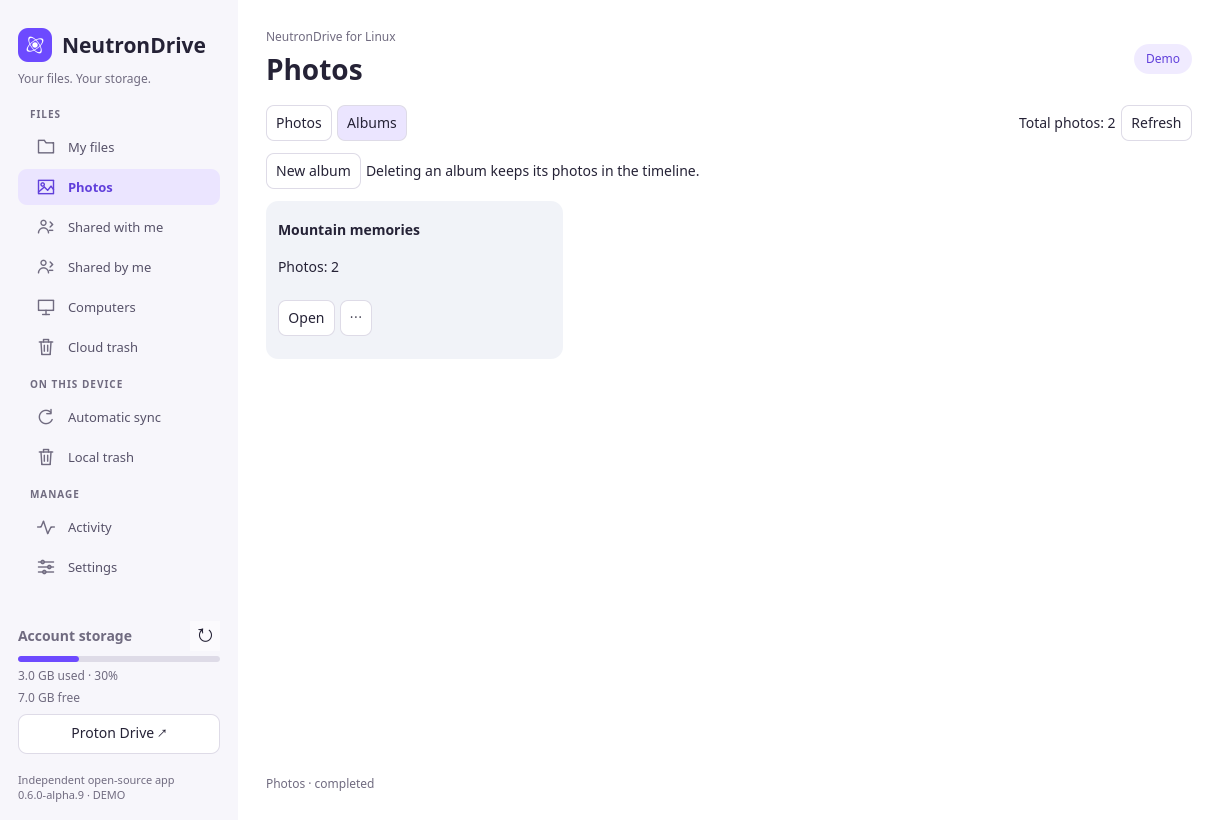
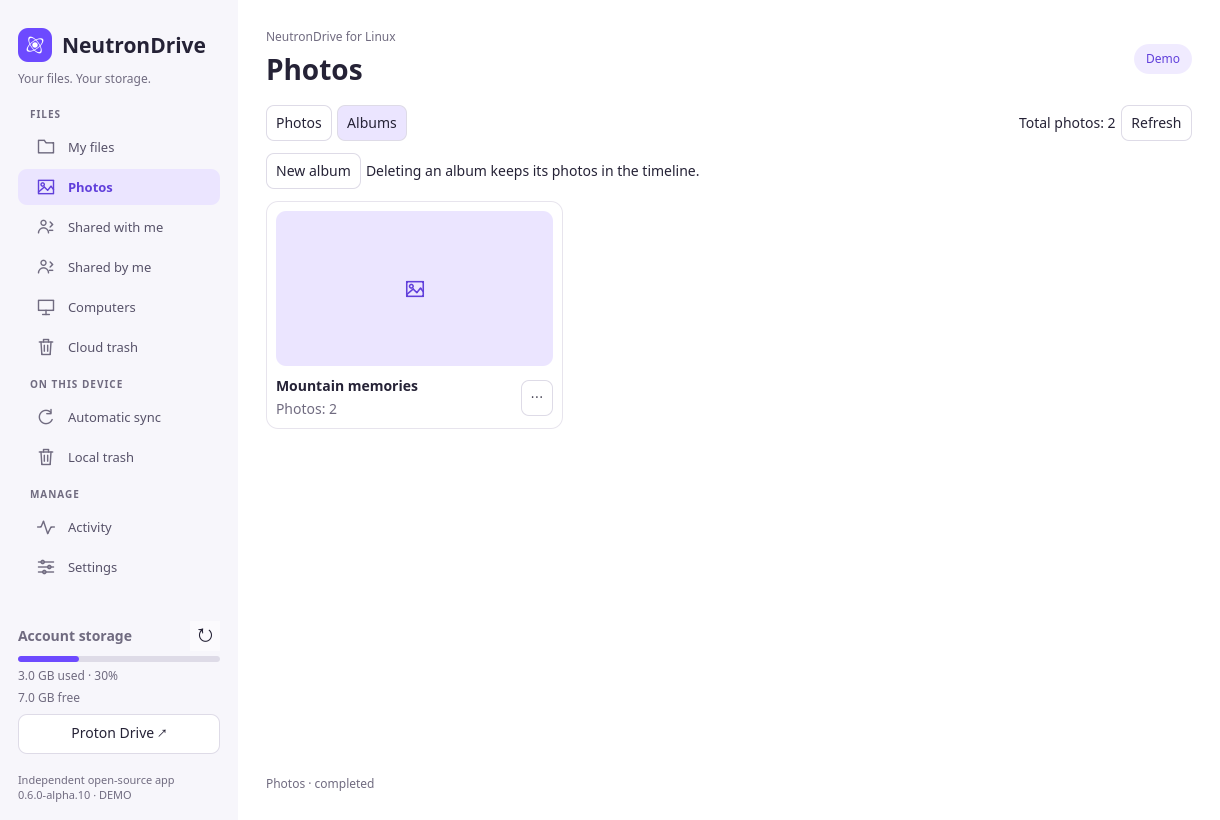
Fix isolated Snap and Arch packaging and document alpha10

diff --git a/README.md b/README.md
@@ -4,7 +4,7 @@ An independent, open-source **Linux desktop client for Proton Drive**, with a
 native Qt Quick/QML interface and Proton's open-source SDK/CLI as its encryption and account
 backend. The interface follows the system language, with 25 Windows-matching language variants and an English fallback. See [localization and translation review status](docs/LOCALIZATION.md).
 
-**Status: 0.6.0 alpha 9.** Automatic background synchronization, recoverable
+**Status: 0.6.0 alpha 10.** Automatic background synchronization, recoverable
 bidirectional file deletions and real on-demand files are implemented. Full Windows/macOS feature parity is not yet reached.
 Keep an independent backup while using this alpha. See the actual [validation record](docs/VALIDATION.md).
 
@@ -12,17 +12,16 @@ NeutronDrive is not affiliated with, endorsed by, or officially supported by
 Proton AG. Proton names are used only to identify the compatible service. The
 interface and icon are original; no Windows/macOS application code is copied.
 
-> **In development after alpha9:** a themed two-step setup assistant, cleaner photo
-> selection and a zoomable preview, plus native file-manager menu extensions.
-> See [desktop refinements](docs/DESKTOP-FEATURES.md#gallery-and-desktop-refinements-development-after-alpha9)
-> and [file-manager support](docs/FILE-MANAGER-INTEGRATION.md). These changes are not
-> included in the alpha9 downloads yet.
+Alpha10 adds a themed two-step setup assistant, opt-in photo selection and a
+zoomable preview, plus native file-manager menu extensions. See
+[desktop refinements](docs/DESKTOP-FEATURES.md#gallery-and-desktop-refinements-alpha10)
+and [file-manager support](docs/FILE-MANAGER-INTEGRATION.md).
 
-## Next-build previews
+## Photos and setup previews
 
-Captured from the actual development UI in English with synthetic demo data.
+Actual alpha10 release UI, captured in English with isolated synthetic data.
 
-![Photo selection in the development build](docs/previews/development/light-photos-selection.png)
+![Photo selection](docs/previews/development/light-photos-selection.png)
 
 [Clean photo grid](docs/previews/development/light-photos.png) ·
 [Image preview](docs/previews/development/light-photo-viewer.png) ·
@@ -40,7 +39,7 @@ views; arrow keys, Ctrl+A, Ctrl-click and double-click folder navigation work in
 both. The view choice lasts for the current application session. Grid tiles use
 file/folder icons, not photo thumbnails.
 
-![Current alpha9 grid view in English](docs/previews/files-grid-light.png)
+![Current alpha10 grid view in English](docs/previews/files-grid-light.png)
 
 [Dark grid](docs/previews/files-grid-dark.png) ·
 [Detailed list](docs/previews/files-list-light.png) ·
@@ -65,11 +64,11 @@ sync overview, computer backup and guarded version history remain available.
 See [desktop feature details and limits](docs/DESKTOP-FEATURES.md). This is not a
 claim of complete Windows/macOS parity; package restrictions remain explicit.
 
-## Published alpha9 interface
+## Published alpha10 interface
 
-![Current alpha9 interface in English with isolated sample files](docs/demo.png)
+![Current alpha10 interface in English with isolated sample files](docs/demo.png)
 
-Actual alpha9 GUI, captured in English using isolated synthetic data; no live account or personal files.
+Actual alpha10 GUI, captured in English using isolated synthetic data; no live account or personal files.
 [Preview build and capture details](docs/GUI-PREVIEWS.json).
 
 [Current dark appearance preview](docs/demo-dark.png) · Appearance follows the desktop setting or your manual preference.
@@ -164,21 +163,21 @@ After downloading a matching package:
 
 ```sh
 # Debian/Ubuntu
-sudo apt install ./neutrondrive_0.6.0-alpha9-1_amd64.deb
+sudo apt install ./neutrondrive_0.6.0-alpha10-1_amd64.deb
 
 # Fedora (use the Fedora artifact)
-sudo dnf install ./neutrondrive-0.6.0-alpha9-fedora-x86_64.rpm
+sudo dnf install ./neutrondrive-0.6.0-alpha10-fedora-x86_64.rpm
 
 # openSUSE (use the openSUSE artifact)
-sudo zypper install ./neutrondrive-0.6.0-alpha9-opensuse-x86_64.rpm
+sudo zypper install ./neutrondrive-0.6.0-alpha10-opensuse-x86_64.rpm
 
 # Flatpak
 flatpak remote-add --user --if-not-exists flathub https://flathub.org/repo/flathub.flatpakrepo
-flatpak install --user ./neutrondrive-0.6.0a9-x86_64.flatpak
+flatpak install --user ./neutrondrive-0.6.0a10-x86_64.flatpak
 flatpak run io.github.SigmaCodez.NeutronDrive
 
 # Snap (unsigned alpha package)
-sudo snap install --dangerous ./neutrondrive_0.6.0-alpha9_amd64.snap
+sudo snap install --dangerous ./neutrondrive_0.6.0-alpha10_amd64.snap
 sudo snap connect neutrondrive:password-manager-service
 ```
 
@@ -186,8 +185,8 @@ Additional formats:
 
 ```sh
 # Portable x86_64 AppImage
-chmod +x NeutronDrive-0.6.0-alpha9-x86_64.AppImage
-./NeutronDrive-0.6.0-alpha9-x86_64.AppImage
+chmod +x NeutronDrive-0.6.0-alpha10-x86_64.AppImage
+./NeutronDrive-0.6.0-alpha10-x86_64.AppImage
 
 # Arch/Manjaro: review the PKGBUILD, then build as a regular user
 # Requires base-devel and git.
@@ -429,7 +428,7 @@ and use their normal package/update workflow. See [update behavior and limits](d
 Automatic sync now includes a Computer backup card that registers a Linux
 computer through the official SDK and synchronizes selected folders under
 Proton Drive's Computers section. It requires the new source-built SDK bridge
-and Rust core, included in alpha9 packages. See
+and Rust core, included in alpha10 packages. See
 [setup and safety behavior](docs/COMPUTER-BACKUP.md) and the
 [Windows feature comparison](docs/WINDOWS-PARITY.md) for remaining gaps.
 

diff --git a/docs/VALIDATION.md b/docs/VALIDATION.md
@@ -135,3 +135,23 @@ AUR publication is pending an AUR account and SSH access; GitHub provides the
 recipe, generated metadata and tested Arch binary without claiming an AUR listing.
 The supplemental release files use `PORTABLE_SHA256SUMS`; existing alpha6 files
 and the release tag are retained unchanged.
+
+## 0.6.0 alpha10 release validation
+
+Native application and DEB source commit: `bba4545cdf728ddec2da026e781fa3acc2844033`. Package corrections and final validation are recorded
+in the [release checks](https://github.com/SigmaCodez/NeutronDrive/pull/9/checks). Feature changes and release metadata are
+tracked in [PR #9](https://github.com/SigmaCodez/NeutronDrive/pull/9).
+
+The build validates both native architectures, Rust tests and Clippy, retained
+regression contracts, SDK bridge tests and eight Linux installation packages.
+Native menu providers are tested against real host libraries with synthetic
+file information and intercepted process spawning, including the two Nautilus
+ABIs. Isolated actual Qt input tests cover the themed sign-in/folder steps,
+photo selection, viewer, albums and navigation. Fresh English previews come
+from the unchanged release DEB, with executable hashes in GUI-PREVIEWS.json.
+
+No new live cloud mutation test was performed for this UI/menu release. Earlier
+alpha9 live-test evidence remains separately dated above. PCManFM/PCManFM-Qt
+full desktop GUI testing remains pending. This does not certify every distro
+or establish absence of all bugs. See release BUILD_INFO.json, TEST_RESULTS.json,
+SHA256SUMS and native/SDK provenance for exact artifacts and test jobs.

diff --git a/packaging/README.md b/packaging/README.md
@@ -16,7 +16,7 @@ python3 scripts/build-backend --help
 ```
 
 The current SDK bridge and application packages are published together in
-`v0.6.0-alpha9`. Source builds are inspectable; bit-for-bit reproducibility
+`v0.6.0-alpha10`. Source builds are inspectable; bit-for-bit reproducibility
 across arbitrary build hosts is not claimed.
 
 ## Requirements and coverage
@@ -146,7 +146,7 @@ an expendable Ubuntu 24.04 build environment; CI uses a disposable runner.
 
 ```sh
 python3 scripts/build-snap
-sudo snap install --dangerous dist/neutrondrive_0.6.0-alpha9_amd64.snap
+sudo snap install --dangerous dist/neutrondrive_0.6.0-alpha10_amd64.snap
 sudo snap connect neutrondrive:password-manager-service
 neutrondrive
 ```
@@ -255,6 +255,6 @@ makepkg --syncdeps
 
 This recipe has no Python runtime dependencies and verifies the original DEB's
 frontend and SDK provenance before creating its local source/checksum entries.
-The published `packaging/aur/neutrondrive-bin` recipe pins the alpha9 native
+The published `packaging/aur/neutrondrive-bin` recipe pins the alpha10 native
 DEBs and uses the same runtime dependency set as the tested Arch package.
 No AUR account creation or publication is performed by either workflow.

diff --git a/docs/WINDOWS-PARITY.md b/docs/WINDOWS-PARITY.md
@@ -14,7 +14,7 @@ This is a tracked comparison, not a claim of complete parity.
 | Individual-file deletion propagation | Guarded baseline and trash support |
 | Whole-folder deletion propagation | Blocked when the public SDK cannot prove trashed children; not parity |
 | Online-only files and keep-offline/evict | Linux FUSE implementation; requires native helper, strict Snap limitations remain |
-| File-manager overlays/context menus | Alpha9 adds app and Dolphin availability actions. The next build adds native Nautilus/Nemo/Caja/Thunar menus and sharing; see FILE-MANAGER-INTEGRATION.md. Explorer-like overlays remain absent |
+| File-manager overlays/context menus | Alpha9 adds app and Dolphin availability actions. Alpha10 adds native Nautilus/Nemo/Caja/Thunar menus and sharing; see FILE-MANAGER-INTEGRATION.md. Explorer-like overlays remain absent |
 | Shared with me | Browsing/transfers exist; dedicated automatic shared-folder synchronization is not complete |
 | Version history and restore UI | Alpha8: lists historical revisions and requests restoration after confirmation and stale-baseline checks; server application is eventually consistent |
 | Proton Docs/Sheets desktop integration | Not complete |

diff --git a/docs/DESKTOP-FEATURES.md b/docs/DESKTOP-FEATURES.md
@@ -1,4 +1,4 @@
-# Desktop features: alpha9
+# Desktop features: alpha10
 
 Alpha9 includes these features in both the native frontend and SDK bridge.
 Upgrade the complete application package; older bridges do not contain all
@@ -50,7 +50,7 @@ editing, RAW grouping and import remain outside this change.
 
 ## Guided placeholder sync (alpha9)
 
-The next development build uses a themed two-step assistant: sign in to Proton
+Alpha10 uses a themed two-step assistant: sign in to Proton
 first, then choose the sync folder. Continue is enabled after authentication;
 Back preserves the folder choice. Cards, buttons and inputs follow the main
 window’s light/dark appearance.
@@ -137,7 +137,7 @@ BUILD_INFO.json and TEST_RESULTS.json for the exact scope and remaining limits.
 See the alpha8 release BUILD_INFO.json and TEST_RESULTS.json for the exact
 build commit, GitHub test run and installed-package validation.
 
-## Gallery and desktop refinements (development, after alpha9)
+## Gallery and desktop refinements (alpha10)
 
 The photo grid now shows clean image tiles. **Select photos** enters selection
 mode; only then do checkboxes appear in the top-left corner of images. **Done**

diff --git a/packaging/appimage/README.md b/packaging/appimage/README.md
@@ -16,14 +16,14 @@ No musl/Alpine or 32-bit support is claimed. ARM64 users can use the native pack
 ## Run
 
 ```sh
-chmod +x NeutronDrive-0.6.0-alpha9-x86_64.AppImage
-./NeutronDrive-0.6.0-alpha9-x86_64.AppImage
+chmod +x NeutronDrive-0.6.0-alpha10-x86_64.AppImage
+./NeutronDrive-0.6.0-alpha10-x86_64.AppImage
 ```
 
 If the system cannot mount AppImages, extract and run without FUSE:
 
 ```sh
-./NeutronDrive-0.6.0-alpha9-x86_64.AppImage --appimage-extract
+./NeutronDrive-0.6.0-alpha10-x86_64.AppImage --appimage-extract
 ./squashfs-root/AppRun
 ```
 
@@ -46,7 +46,7 @@ The application is not sandboxed by AppImage.
 
 ## Sources and notices
 
-The application, bridge and pinned Qt source archives are provided by the alpha9
+The application, bridge and pinned Qt source archives are provided by the alpha10
 release. Ubuntu copyright notices and exact binary/source package versions are
 included in `usr/share/doc/ubuntu-runtime` and
 `usr/share/doc/neutrondrive/ubuntu-runtime-packages.tsv`. This manifest records the full Ubuntu build environment; not every listed package

diff --git a/docs/FILE-MANAGER-INTEGRATION.md b/docs/FILE-MANAGER-INTEGRATION.md
@@ -1,7 +1,7 @@
-# Native file-manager integration (development)
+# Native file-manager integration (alpha10)
 
-The next build adds **Keep on device**, **Free up space** and **Share…** to
-Linux file-manager context menus. These changes are not in the alpha9 release.
+Alpha10 adds **Keep on device**, **Free up space** and **Share…** to
+Linux file-manager context menus. These changes are included in the native alpha10 packages.
 
 | File manager | Integration | Scope |
 | --- | --- | --- |

diff --git a/packaging/aur/README.md b/packaging/aur/README.md
@@ -1,6 +1,6 @@
 # Arch Linux / Manjaro package
 
-`neutrondrive-bin` repackages the alpha9 NeutronDrive DEBs with fixed SHA256
+`neutrondrive-bin` repackages the alpha10 NeutronDrive DEBs with fixed SHA256
 checksums, preserving the bundled Qt runtime, Rust core, bridge, language catalogs
 and native D-Bus/systemd files. Host dependencies are resolved by pacman. It does
 not run account, autostart or synchronization commands during installation.
